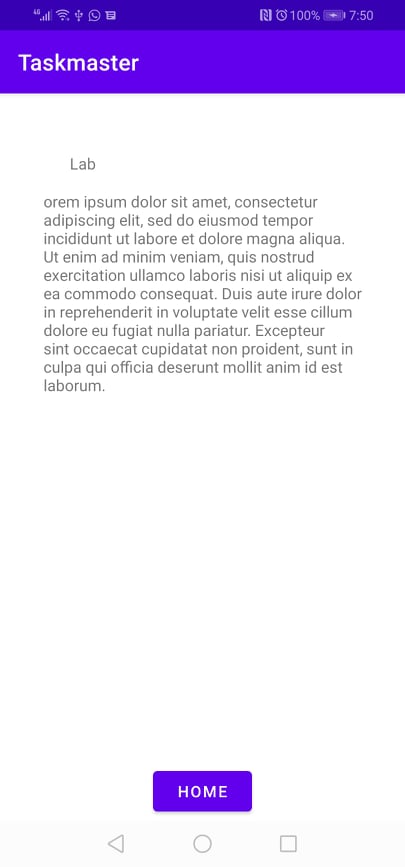
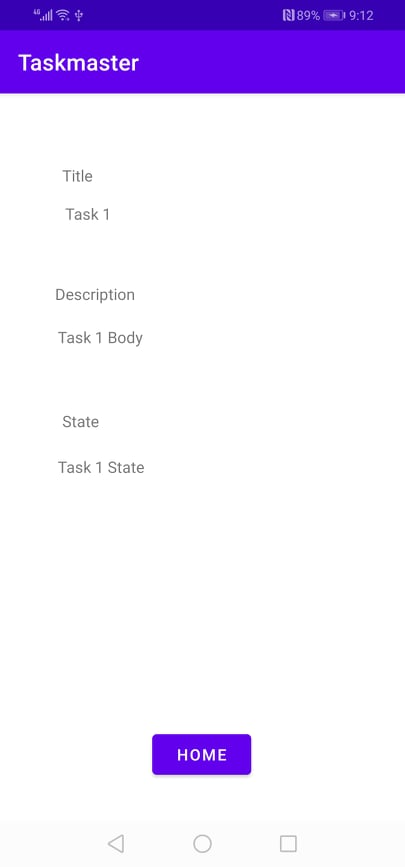
edit read me

diff --git a/README.md b/README.md
@@ -4,36 +4,34 @@
 
 **Homepage**
 
-The main page have a heading at the top of the page,buttons at the bottom of the page to allow going to the “add tasks” and “all tasks” page.
-
-contain three different buttons with hardcoded task titles. When a user taps one of the titles, it goes to the Task Detail page, and the title at the top of the page match the task title that was tapped on the previous page.
-
 The homepage also contain a button to visit the Settings page, and once the user has entered their username, it displays “{username}’s tasks” above the three task buttons.
 
-Refactor homepage to use a RecyclerView for displaying Task data. This have hardcoded Task data for now.
+homepage uses a RecyclerView display all Task entities in your database.
 
 ![Home-Page](./screenshots/home-page.jpg)
 
 **Add a Task**
 
-On the “Add a Task” page, allow users to type in details about a new task, specifically a title and a body. When users click the “submit” button, show a “submitted!” label on the page.
+On the “Add a Task” page, allow users to type in details about a new task, specifically a title, state and a body. When users click the “submit” button, show a “submitted!” label on the page and save the data entered in as a Task in local database.
 
 ![Home-Page](./screenshots/add-task.jpg)
 
-**All Tasks**
+**Task Detail Page**
+
+have a title the description and status of a tapped task are also displayed on the detail page.
+
+![Home-Page](./screenshots/details.jpg)
+
+<!-- Canceled Feature -->
+
+<!-- **All Tasks**
 
 The all tasks page is an image with a back button.
 
 ![Home-Page](./screenshots/all-tasks.jpg)
 
-**Task Detail Page**
-
-have a title at the top of the page, and a Lorem Ipsum description.
-
-![Home-Page](./screenshots/details.jpg)
-
 **Settings Page**
 
 allow users to enter their username and hit save.
 
-![Home-Page](./screenshots/settings.jpg)
+![Home-Page](./screenshots/settings.jpg) -->
